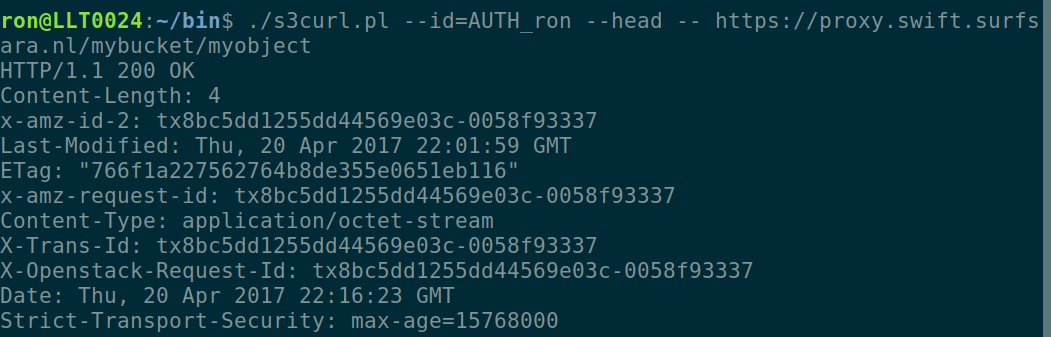
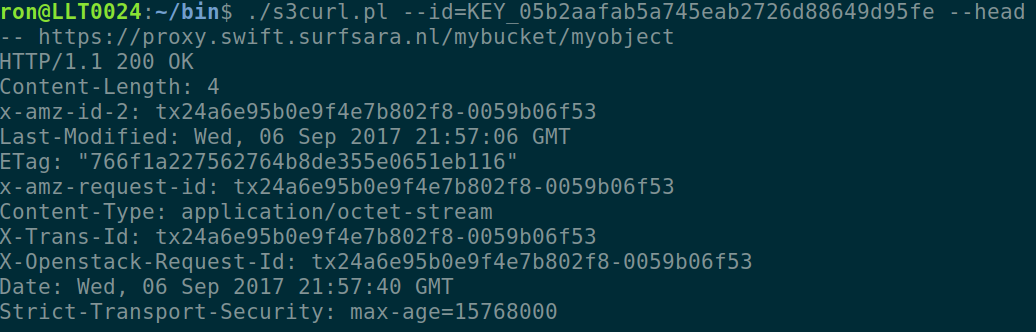
meh

Changed region(s): [[0.0, 0.0, 1.0, 1.0]]

diff --git a/source/Pages/Clients/s3.rst b/source/Pages/Clients/s3.rst
@@ -81,9 +81,20 @@ This produces output like this:
     +----------------------------------+----------------------------------+----------------------------------+----------------------------------+
     | Access                           | Secret                           | Project ID                       | User ID                          |
     +----------------------------------+----------------------------------+----------------------------------+----------------------------------+
-    | 056d990fe449ea2473c798fad554ac1d | 8d8fad5c0cd24fdaa3972fabbc187002 | 05b2aafab5a745eab2726d88649d95fe | bd4a4a9ea29344ccb828ab4a818e8576 |
+    | 056d990fe449ea2473c798fad554ac1d | 8d8fad5c0cd24fdaa3972fabbc187002 | afabdda3459e65f193626d88649d95fe | bd4a4a9ea29344ccb828ab4a818e8576 |
     +----------------------------------+----------------------------------+----------------------------------+----------------------------------+
 
+Then our **.s3curl** file looks like this:
+
+.. code-block:: perl
+
+    %awsSecretAccessKeys = (
+       # personal account
+       KEY_afabdda3459e65f193626d88649d95fe => {
+           id => '056d990fe449ea2473c798fad554ac1d',
+           key => '8d8fad5c0cd24fdaa3972fabbc187002'
+       }
+    );
 
 
 Create a bucket
